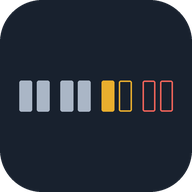
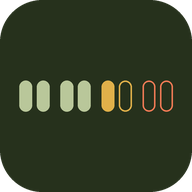
Add files via upload

diff --git a/index.html b/index.html
@@ -4,7 +4,8 @@
 <meta charset="utf-8">
 <meta name="viewport" content="width=device-width, initial-scale=1, viewport-fit=cover">
 <title>Devamsızlık</title>
-<meta name="theme-color" content="#18212E">
+<meta name="theme-color" content="#26311C" media="(prefers-color-scheme: light)">
+<meta name="theme-color" content="#1F2818" media="(prefers-color-scheme: dark)">
 <meta name="apple-mobile-web-app-capable" content="yes">
 <meta name="mobile-web-app-capable" content="yes">
 <meta name="apple-mobile-web-app-title" content="Devamsızlık">
@@ -14,7 +15,7 @@
 <link rel="apple-touch-icon" href="apple-touch-icon.png">
 <link rel="preconnect" href="https://fonts.googleapis.com">
 <link rel="preconnect" href="https://fonts.gstatic.com" crossorigin>
-<link href="https://fonts.googleapis.com/css2?family=Barlow:wght@400;500;600&family=Barlow+Semi+Condensed:wght@500;600;700&display=swap" rel="stylesheet">
+<link href="https://fonts.googleapis.com/css2?family=Young+Serif&family=Figtree:wght@400;500;600;700&display=swap" rel="stylesheet">
 <style>
 :root{
   --bg:#EDF0F3; --panel:#FFFFFF; --ink:#18212E; --muted:#5C6878; --line:#D5DBE3;
@@ -386,6 +387,83 @@ body.gated .tabbar{display:none}
 .arow .r.z1{color:var(--amber)} .arow .r.z2,.arow .r.over{color:var(--red)}
 .aline{margin:0;padding:6px 0;border-top:1px solid var(--line);font-size:14px}
 .alink{display:flex;align-items:center;justify-content:center;text-decoration:none;color:var(--ink);margin-top:14px}
+
+/* ================= Zeytin teması ================= */
+:root{
+  --bg:#EDEBE1; --panel:#FBFAF4; --ink:#1F2618; --muted:#6F7462; --line:#DEDBCB;
+  --steel:#4F6531; --cell:#E4E1D3;
+  --amber:#A8780F; --amber-t:#F2E6C4; --red:#D6582F; --red-t:#F6DACD;
+  --accent:#4F6531; --accent-ink:#FFFFFF;
+  --hdr:#26311C; --hdr-ink:#F6F5EC; --hdr-sub:#B9C3A5; --tabmuted:#A3AE8E; --tabon:#FF8F66;
+  --soft:#E6EAD8; --tickline:#A9B58E; --shadow:rgba(38,49,28,.30);
+  --body:"Figtree", system-ui, -apple-system, "Segoe UI", Roboto, sans-serif;
+  --cond:"Figtree", system-ui, -apple-system, "Segoe UI", Roboto, sans-serif;
+  --serif:"Young Serif", Georgia, "Times New Roman", serif;
+}
+@media (prefers-color-scheme: dark){
+  :root:not([data-theme="light"]){
+    --bg:#121510; --panel:#1B2017; --ink:#E9ECDF; --muted:#9CA48C; --line:#2D3425;
+    --steel:#A9C47A; --cell:#272D20;
+    --amber:#E0B04A; --amber-t:#3A3219; --red:#F07A55; --red-t:#40241A;
+    --accent:#A9C47A; --accent-ink:#121510;
+    --hdr:#1F2818; --hdr-ink:#F1F3E8; --hdr-sub:#9FAE86; --tabmuted:#8E9A7A; --tabon:#FF8F66;
+    --soft:#2A3321; --tickline:#56634A; --shadow:rgba(0,0,0,.45);
+  }
+}
+:root[data-theme="dark"]{
+  --bg:#121510; --panel:#1B2017; --ink:#E9ECDF; --muted:#9CA48C; --line:#2D3425;
+  --steel:#A9C47A; --cell:#272D20;
+  --amber:#E0B04A; --amber-t:#3A3219; --red:#F07A55; --red-t:#40241A;
+  --accent:#A9C47A; --accent-ink:#121510;
+  --hdr:#1F2818; --hdr-ink:#F1F3E8; --hdr-sub:#9FAE86; --tabmuted:#8E9A7A; --tabon:#FF8F66;
+  --soft:#2A3321; --tickline:#56634A; --shadow:rgba(0,0,0,.45);
+}
+/* başlık bandı: koyu zeytin, altı yumuşak kavis, kartlar üstüne biner */
+header{position:relative;margin:calc(-20px - env(safe-area-inset-top,0px)) -16px -16px;
+  padding:calc(24px + env(safe-area-inset-top,0px)) 20px 42px;background:var(--hdr);color:var(--hdr-ink);align-items:flex-end}
+header::after{content:"";position:absolute;left:0;right:0;bottom:-1px;height:22px;background:var(--bg);border-radius:50% 50% 0 0 / 100% 100% 0 0}
+header h1{color:var(--hdr-ink)}
+.today-date{color:var(--hdr-sub);font-family:var(--body);font-weight:500;font-size:15px}
+.tab{position:relative;z-index:1}
+/* yazı tipleri: başlıklar ve büyük sayılar serif */
+h1,h2,.section summary,.pday h3,.left .n,.xdd,.srow .r,.arow .r,.astats b,.auser b,.mhead,.calhead h2{font-family:var(--serif);font-weight:400}
+h1{font-size:30px;letter-spacing:0}
+h2{font-size:19px}
+.section summary{font-size:18px}
+.left .n{font-size:28px}
+.srow .r,.arow .r{font-size:16px}
+.xdd{font-size:19px}
+/* kartlar */
+.panel{border-radius:18px;border-color:var(--line);box-shadow:0 10px 24px -20px var(--shadow)}
+.courses{border-radius:18px}
+/* işaret kutuları: yuvarlak */
+.tick{border-radius:50%;border-color:var(--tickline)}
+.tick.dis{border-style:dashed}
+/* etiketler */
+.tag{font-family:var(--body);font-weight:700;background:var(--steel);color:var(--panel)}
+.tag.soft{background:var(--soft);color:var(--steel)}
+.abadge{font-family:var(--body);font-weight:700}
+/* çetele şeridi: yuvarlak şamandıralar */
+.wk{gap:3px}
+.cell{height:10px;border-radius:999px}
+.srow .cell{height:8px}
+.wk.z1 .cell,.wk.z2 .cell{box-shadow:none}
+/* alt bar: yüzen koyu zeytin */
+.tabbar{left:12px;right:12px;bottom:calc(10px + env(safe-area-inset-bottom,0px));border:0;border-radius:22px;
+  background:var(--hdr);padding:8px 6px;box-shadow:0 12px 30px -12px rgba(0,0,0,.45)}
+.tabbar button{color:var(--tabmuted)}
+.tabbar button[aria-current="page"]{color:var(--hdr-ink)}
+.tabbar button[aria-current="page"] svg{color:var(--tabon)}
+.wrap{padding-bottom:calc(112px + env(safe-area-inset-bottom,0px))}
+/* seçili çipler */
+.chip[aria-pressed="true"],.builder .chip[aria-pressed="true"]{background:var(--steel);color:var(--panel);border-color:var(--steel)}
+/* giriş ekranı */
+.gin h1{color:var(--ink)}
+/* takvimde devamsızlık günü: koyu modda da okunur */
+.day.abs{color:var(--accent-ink)}
+.day.abs.exam::before{background:var(--accent-ink)}
+/* uzaktan simgesi satır içinde kalsın (bazı listelerde span'lar blok yapılıyordu) */
+span.ico{display:inline-flex!important}
 </style>
 </head>
 <body>
@@ -466,7 +544,7 @@ body.gated .tabbar{display:none}
 
 <div class="gate" id="gate" role="dialog" aria-modal="true" aria-labelledby="gateTitle" hidden>
   <div class="gin">
-    <svg class="glogo" viewBox="0 0 48 48" aria-hidden="true"><rect width="48" height="48" rx="11" fill="#18212E"/><g transform="translate(7 17)"><rect x="0" y="0" width="5" height="13" rx="1.2" fill="#AAB6C6"/><rect x="7" y="0" width="5" height="13" rx="1.2" fill="#AAB6C6"/><rect x="15.5" y="0" width="5" height="13" rx="1.2" fill="#E9AE2E"/><rect x="23.5" y="0.8" width="3.6" height="11.4" rx="1" fill="none" stroke="#E9AE2E" stroke-width="1.6"/><rect x="30" y="0.8" width="3.6" height="11.4" rx="1" fill="none" stroke="#F0645A" stroke-width="1.6"/></g></svg>
+    <svg class="glogo" viewBox="0 0 48 48" aria-hidden="true"><rect width="48" height="48" rx="12" fill="#26311C"/><g transform="translate(7 17)"><rect x="0" y="0" width="5" height="13" rx="2.5" fill="#B9C79A"/><rect x="7" y="0" width="5" height="13" rx="2.5" fill="#B9C79A"/><rect x="15.5" y="0" width="5" height="13" rx="2.5" fill="#E0B04A"/><rect x="23.5" y="0.8" width="3.6" height="11.4" rx="1.8" fill="none" stroke="#E0B04A" stroke-width="1.6"/><rect x="30" y="0.8" width="3.6" height="11.4" rx="1.8" fill="none" stroke="#F07A55" stroke-width="1.6"/></g></svg>
     <h1 id="gateTitle">Devamsızlık</h1>
     <p id="gateText"></p>
     <p class="carry" id="gateCarry" hidden>Bu telefonda daha önce girdiğin kayıtlar hesabına aktarılır.</p>
@@ -1420,7 +1498,7 @@ function renderAdd(){
 }
 
 /* ---------- Program sekmesi ---------- */
-var PALETTE = ["#2F6FDE","#0F9D8A","#7B5CD6","#E07B24","#D6457A","#3E9B3E","#C99A12","#5A7AA0"];
+var PALETTE = ["#5E7A36","#2F7A6B","#8A5A9E","#C07A2C","#B5485D","#3C6E9E","#A08A2A","#6B7A8C"];
 function courseColor(c){
   var i = state.courses.indexOf(c);
   return PALETTE[(i < 0 ? 0 : i) % PALETTE.length];
